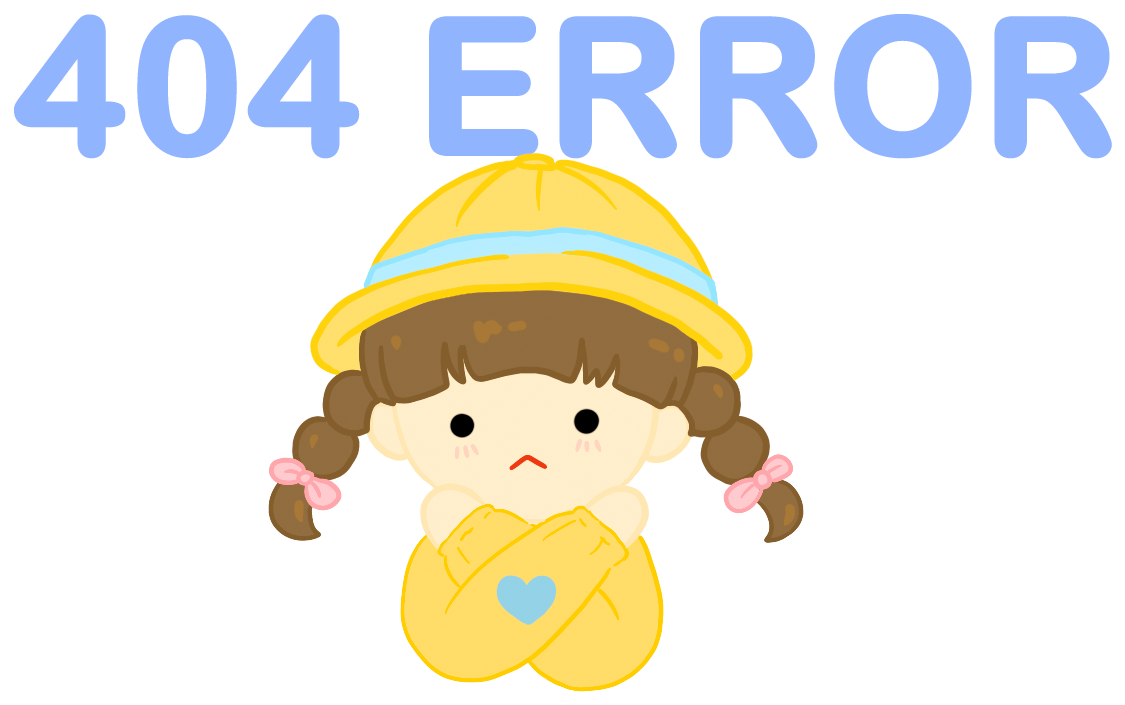
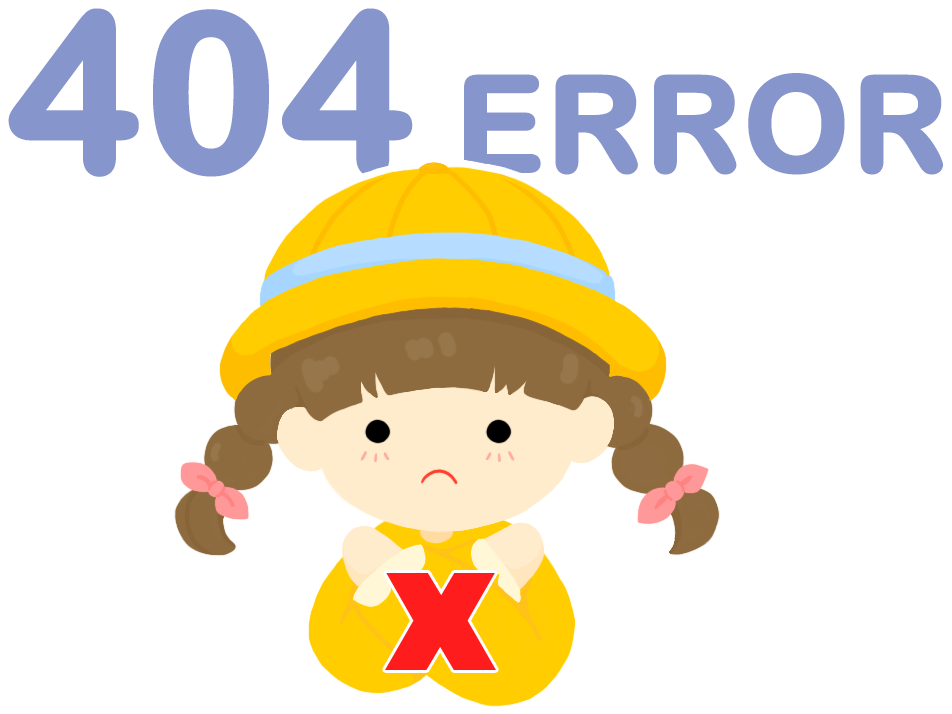
Update Error Page design img

diff --git a/frontend/src/views/errorpage/ServerError.vue b/frontend/src/views/errorpage/ServerError.vue
@@ -1,7 +1,8 @@
 <template>
   <div class="servererror-container">
-    <div class="flex flex-column">
-      <img src="">
+    <div class="flex flex-column mt-5">
+
+      <img class="servererror-img mt-5 mb-5" src="@/assets/servererror.png">
 
       <div class="servererror-title">
         서비스에 접속할 수 없습니다.
@@ -13,14 +14,12 @@
       </div>
 
       <div>
-          <v-btn
-          block 
-          rounded
-          class="mt-5 home-btn"
-          style="background-color: white; color: #58679A;"
-          @click="moveToHome">
-          홈으로 이동
-          </v-btn>
+        <v-btn
+        rounded
+        class="mt-5 home-btn"
+        @click="moveToHome">
+        홈으로 이동
+        </v-btn>
         </div>
     </div>
   </div>
@@ -30,14 +29,23 @@ export default {
   name: "ServerError",
   methods: {
     moveToHome() {
-
+      this.$router.push('/');
     }
   }
 }
 </script>
 <style scoped>
+@font-face {
+    font-family: 'NanumSquareRound';
+    src: url('https://cdn.jsdelivr.net/gh/projectnoonnu/noonfonts_two@1.0/NanumSquareRound.woff') format('woff');
+    font-weight: normal;
+    font-style: normal;
+}
 *{
-  font-family:'Noto Sans KR', sans-serif;
+  font-family:'NanumSquareRound';
+}
+.servererror-img{
+  width: 30%;
 }
 .servererror-container{
   background-color: #A8B1CF;
@@ -55,7 +63,10 @@ export default {
   letter-spacing: 1px;
 }
 .home-btn{
-  font-size: 16px;
+  background-color: white;
+  color: #58679A;
+  width: 150px;
+  font-size: 18px;
 }
 </style>
 

diff --git a/frontend/src/views/errorpage/NotFound.vue b/frontend/src/views/errorpage/NotFound.vue
@@ -15,10 +15,8 @@
 
       <div>
         <v-btn
-        block 
         rounded
         class="mt-5 home-btn"
-        style="background-color: white; color: #58679A;"
         @click="moveToHome">
         홈으로 이동
         </v-btn>
@@ -32,7 +30,7 @@ export default {
   name: "NotFound",
   methods: {
     moveToHome() {
-
+      this.$router.push('/');
     }
   }
 }
@@ -48,7 +46,7 @@ export default {
   font-family:'NanumSquareRound';
 }
 .notfound-img{
-  width: 500px;
+  width: 30%;
 }
 .notfound-container{
   background-color: #A8B1CF;
@@ -56,7 +54,7 @@ export default {
   height:100%;
 }
 .notfound-title{
-  font-weight: 700;
+  font-weight: 900;
   letter-spacing: 2px;
   font-size:36px;
   color: black;
@@ -66,6 +64,9 @@ export default {
   letter-spacing: 1px;
 }
 .home-btn{
+  background-color: white;
+  color: #58679A;
+  width: 150px;
   font-size: 18px;
 }
 </style>
